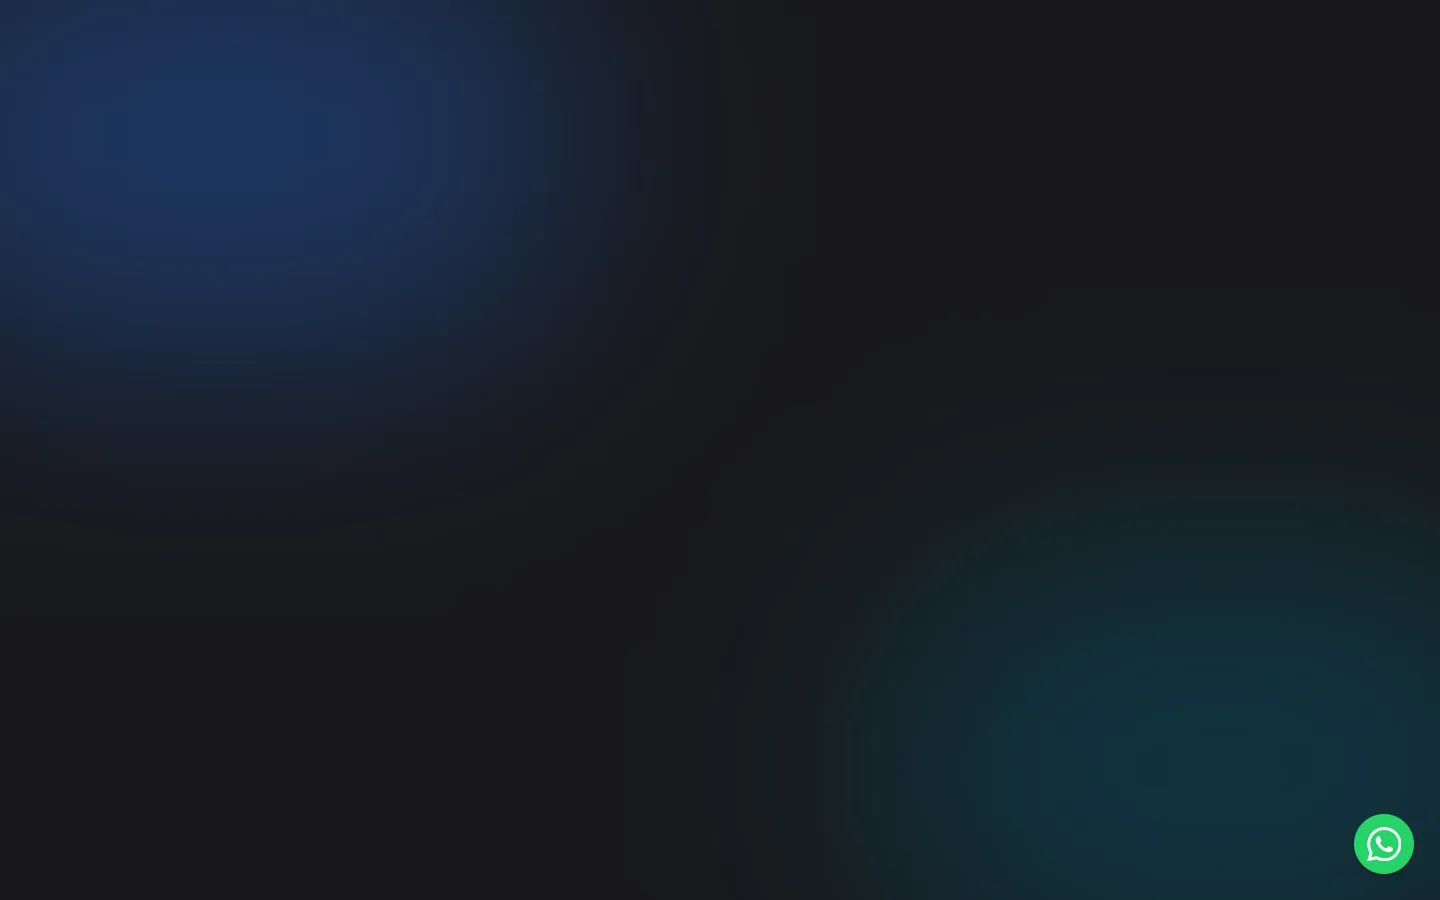
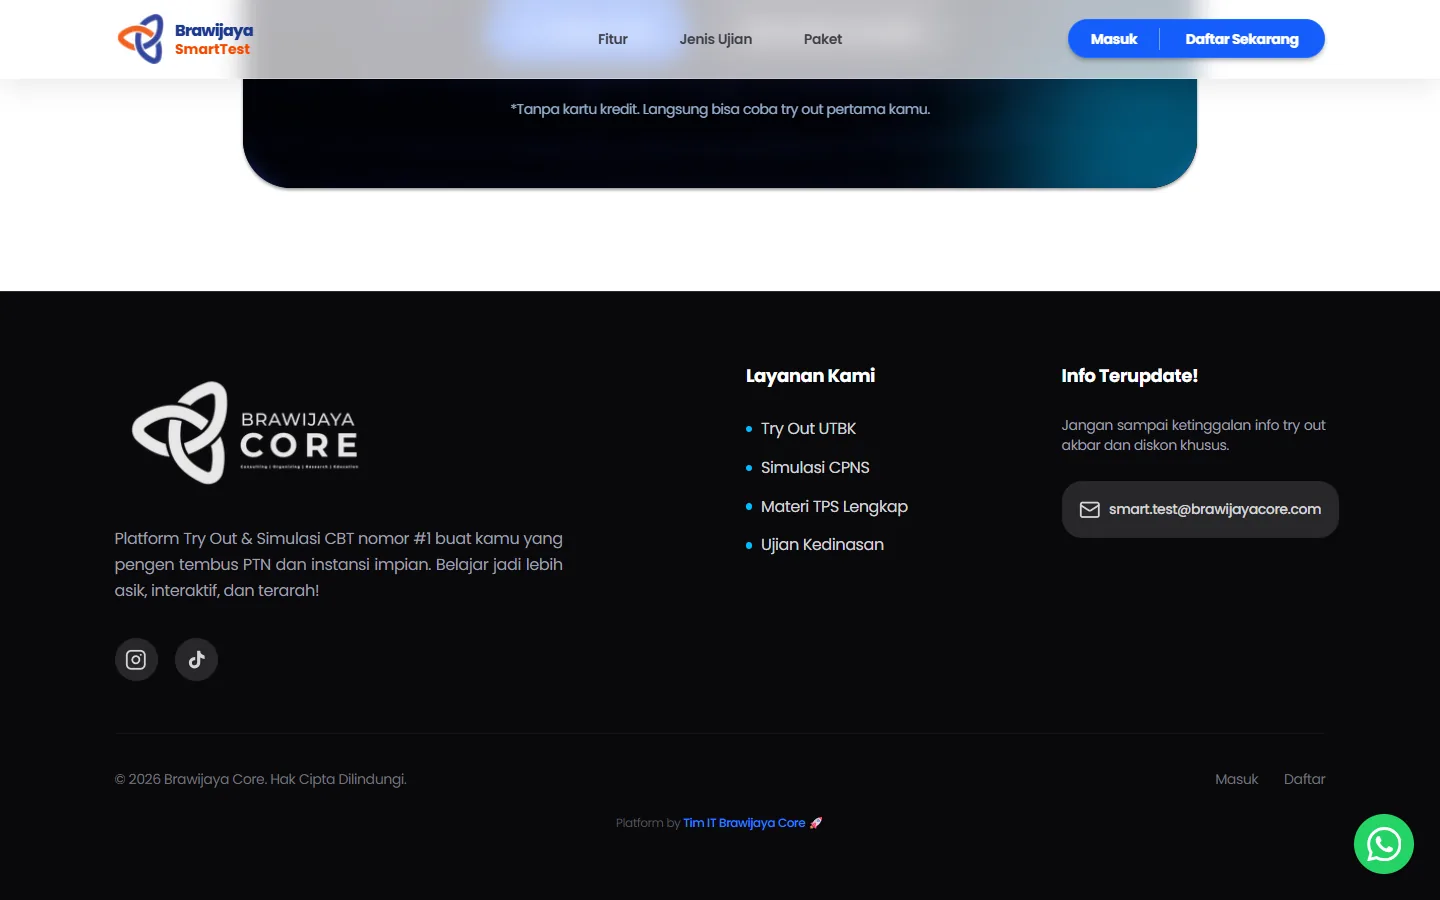
fix: reject blank captures in the media pipeline
The p04 preview and first detail shot were a flat dark loading screen,
not the page. The capture landed before anything rendered — the same
failure the recordings had, which content_window() already handles, but
nothing checked the stills.

Standard deviation separates the two cleanly: the bad p04 capture
measures 10.0 while a real page measures 88. Flat stills are now dropped,
and when the dedicated preview capture is one of them the first usable
detail shot is used instead of shipping a blank hover panel.

Shots left over from a run with more captures are also removed, since the
count in cases.ts would otherwise point at a stale duplicate of the last
one — p04 was showing its final screenshot twice.

diff --git a/src/data/cases.ts b/src/data/cases.ts
@@ -127,7 +127,7 @@ export const cases: Case[] = [
     built: TODO,
     hardPart: TODO,
     outcome: TODO,
-    ...media('04', 3),
+    ...media('04'),
   },
   {
     slug: 'brawijaya-catering',

diff --git a/scripts/process_raw.py b/scripts/process_raw.py
@@ -16,7 +16,7 @@ import subprocess
 import sys
 import tempfile
 
-from PIL import Image
+from PIL import Image, ImageStat
 
 ROOT = os.path.dirname(os.path.dirname(os.path.abspath(__file__)))
 RAW = os.path.join(ROOT, "raw")
@@ -33,6 +33,17 @@ def out(*parts):
 
 def save(img, path, quality=82):
     img.save(path, "WEBP", quality=quality, method=6)
+
+
+def flat(src, min_stddev=15.0):
+    """True when a still is near-uniform, i.e. nothing rendered.
+
+    A capture can land on a loading state the same way a recording opens on
+    one: p04-preview.png came back as a flat dark screen (stddev 10.0) while
+    the real page measures 88. Standard deviation separates them cleanly —
+    a rendered page has text and edges, a loading screen has neither.
+    """
+    return ImageStat.Stat(Image.open(src).convert("L")).stddev[0] < min_stddev
 
 
 def desktop(src, dest):
@@ -137,13 +148,30 @@ def main():
         n = pid[1:]
         print(f"\n{pid}")
 
+        shots = [
+            os.path.join(RAW, f)
+            for f in sorted(files)
+            if f.startswith(f"{pid}-desktop-") and f.endswith(".png")
+        ]
+        shots = [f for f in shots if not flat(f)]
+
         prev = os.path.join(RAW, f"{pid}-preview.png")
-        if os.path.exists(prev):
+        if os.path.exists(prev) and flat(prev):
+            # The dedicated preview capture never rendered; the first usable
+            # detail shot is a better hover panel than a blank screen.
+            prev = shots[0] if shots else None
+            print("  preview       flat capture, using", os.path.basename(prev) if prev else "nothing")
+        if prev:
             print("  preview      ", desktop(prev, out("projects", f"preview-{n}.webp")))
 
-        shots = sorted(f for f in files if f.startswith(f"{pid}-desktop-") and f.endswith(".png"))
         for i, f in enumerate(shots, 1):
-            print(f"  shot-{i:02d}      ", desktop(os.path.join(RAW, f), out("projects", f"shot-{n}-{i:02d}.webp")))
+            print(f"  shot-{i:02d}      ", desktop(f, out("projects", f"shot-{n}-{i:02d}.webp")))
+
+        # Drop shots left over from an earlier run with more captures, or the
+        # count in cases.ts will point at a stale duplicate of the last one.
+        for stale in sorted(glob.glob(os.path.join(PUB, "projects", f"shot-{n}-*.webp")))[len(shots):]:
+            os.remove(stale)
+            print("  removed      ", os.path.basename(stale))
 
         rec = os.path.join(RAW, f"{pid}-mobile-rec.mp4")
         if os.path.exists(rec):
